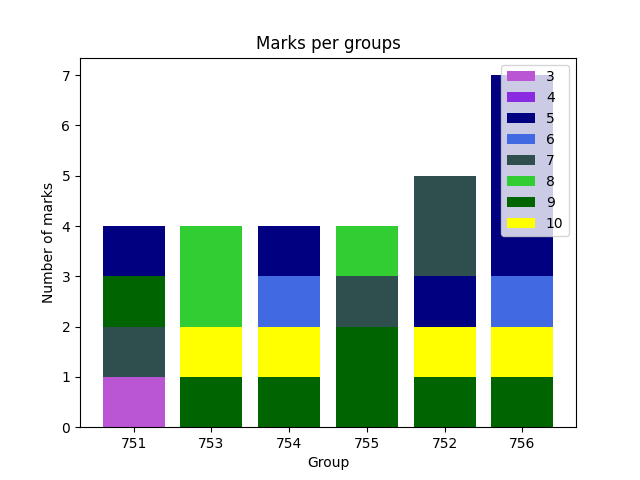
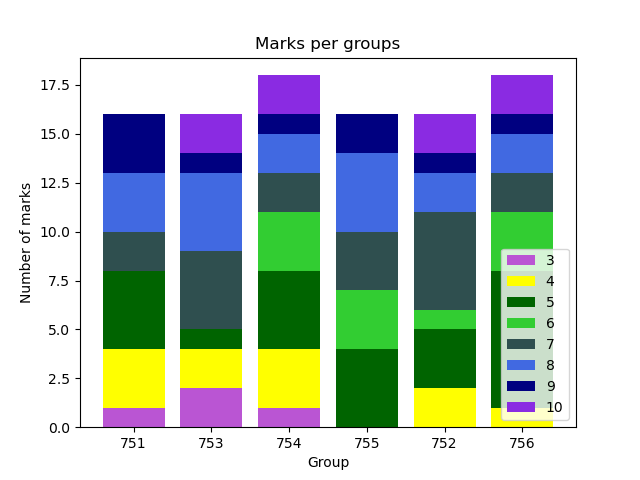
Fix 4th issue

diff --git a/lab_matplotlib/episode_3/episode_3.py b/lab_matplotlib/episode_3/episode_3.py
@@ -4,8 +4,8 @@ from collections import defaultdict
 with open('students.csv') as file:
     students = file.read().split('\n')
 
-preps = defaultdict(lambda: {str(i) : 0 for i in range(3, 11)})
-groups = defaultdict(lambda: {str(i) : 0 for i in range(3, 11)})
+preps = defaultdict(lambda: {str(i) : 0 for i in range(2, 11)})
+groups = defaultdict(lambda: {str(i) : 0 for i in range(2, 11)})
 
 for st in students:
     st = st.split(';')
@@ -13,31 +13,19 @@ for st in students:
     groups[st[1]][st[2]] += 1
 
 colors = ['mediumorchid', 'blueviolet', 'navy', 'royalblue', 'darkslategrey', 'limegreen', 'darkgreen', 'yellow']
-clrs = {str(i): k for i, k in zip(range(3, 11), colors)}
-
-i = 0
 
 # comment if groups_plot is demanded
-for prep in preps.keys():
-    for mark in dict(sorted(preps[prep].items(), key=lambda mark: -mark[1])).keys():
-        plt.bar([str(prep)], [preps[prep][mark]], color=clrs[mark])
-        i += 1
-    i = 0
-
-for mark in clrs:
-    plt.bar([str(list(preps.keys())[0])], [0], color=clrs[mark], label=mark)
+for mark in range(3, 11):
+    plt.bar(preps.keys(), [preps[prep][str(mark)] for prep in preps.keys()],
+            bottom=[sum(list(preps[prep].values())[:(mark-2)]) for prep in preps.keys()],
+            color=colors[-mark+3], label=mark)
 
 # code for groups
-"""
-for group in groups.keys():
-    for mark in dict(sorted(groups[group].items(), key=lambda mark: -mark[1])).keys():
-        plt.bar([str(group)], [groups[group][mark]], color=clrs[mark])
-        i += 1
-    i = 0
+# for mark in range(3, 11):
+#     plt.bar(groups.keys(), [groups[group][str(mark)] for group in groups.keys()],
+#             bottom=[sum(list(groups[group].values())[:(mark-2)]) for group in groups.keys()],
+#             color=colors[-mark+3], label=mark)
 
-for mark in clrs:
-    plt.bar([str(list(groups.keys())[0])], [0], color=clrs[mark], label=mark)
-"""
 plt.legend()
 plt.title('Marks per preps')
 plt.xlabel('Prep')
